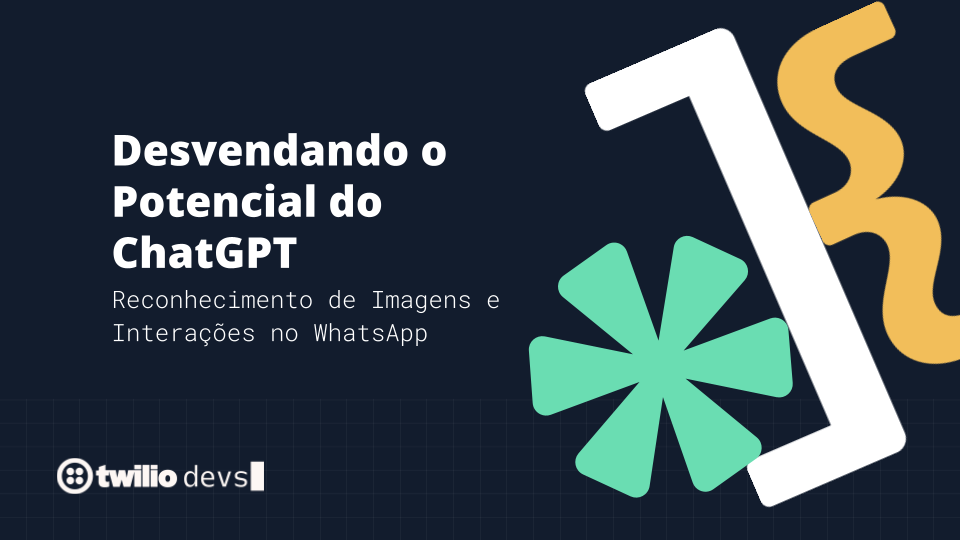
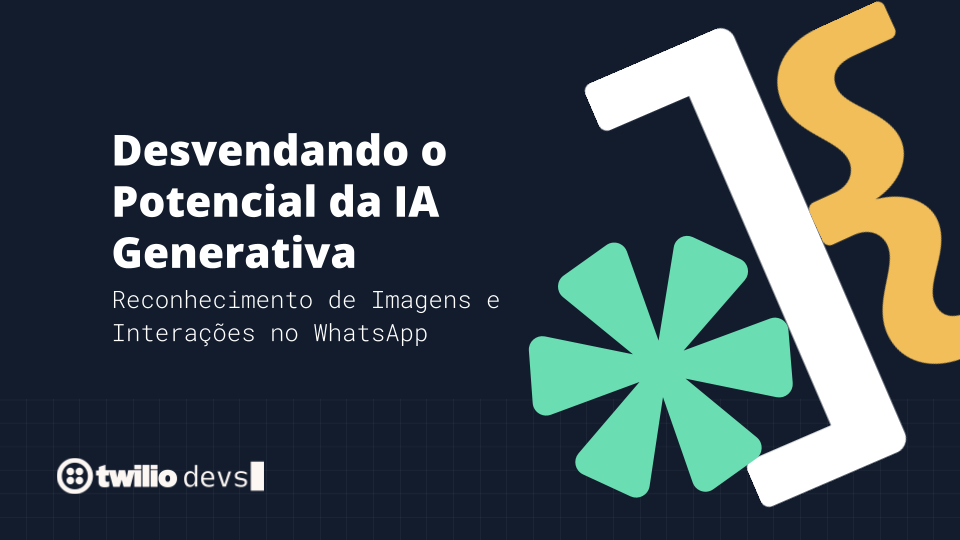
ajuste pratica_1

Changed region(s): [[0.125, 0.4148, 0.375, 0.5037], [0.375, 0.3259, 0.4688, 0.4148]]

diff --git a/README.md b/README.md
@@ -1,12 +1,15 @@
 ![Imagem do Workshop Desvendando o Potencial do ChatGPT](./assets/header.png)
-# Workshop Desvendando o Potencial do ChatGPT
+# Workshop Desvendando o Potencial da IA Generativa
 ## Reconhecimento de Imagens e Interações no WhatsApp
 
-Este workshop foi realizado no TDC Summit São Paulo, dia 27/03/2024 por [Luís Leão](https://linkedin.com/in/luisleao) e [Pedro Markun](https://linkedin.com/in/pedromarkun).
+Este workshop foi realizado em alguns eventos
+* TDC Summit São Paulo, dia 27/03/2024 por [Luís Leão](https://linkedin.com/in/luisleao) e [Pedro Markun](https://linkedin.com/in/pedromarkun).
+* TDC Floripa, dia 13/06/2024 por [Luís Leão](https://linkedin.com/in/luisleao).
+
 
 Você deve realizar os seguintes passos:
 
-* criar uma conta na Twilio com o link https://twil.io/tdcsummitsp
+* criar uma conta na Twilio com o link https://twil.io/workshop-ia
 * criar uma conta na OpenAI e gerar uma chave pelo link https://platform.openai.com/api-keys
 * caso deseje utilizar outro modelo como o Gemini, por exemplo, gere sua chave pelo link https://aistudio.google.com/app/apikey?hl=pt-br
 * cada branch corresponde a uma etapa de implementação do workshop.
